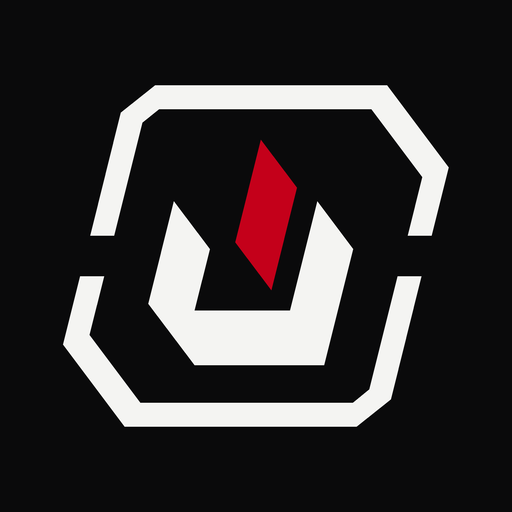
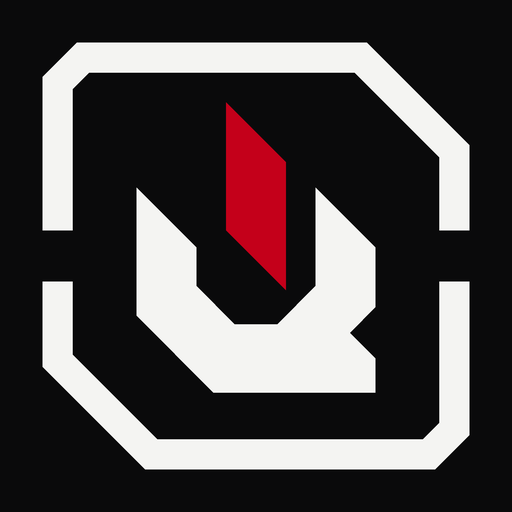
Mark: upright again; inside, every corner that can be cut is cut (gussets, a notch, a longer blade)

diff --git a/assets/src/brand.py b/assets/src/brand.py
@@ -89,9 +89,11 @@ def mark():
     ring = outer.difference(outer.buffer(-7, join_style="mitre"))
     ring = ring.difference(box(-1, 44, 8, 56)).difference(box(92, 44, 101, 56))   # HUD gaps
     u = Polygon([(22, 34), (36, 48), (36, 66), (64, 66), (64, 34), (78, 48), (78, 82), (40, 82), (22, 64)])
-    red = Polygon([(43, 16), (57, 30), (57, 60), (43, 46)])
-    mono = unary_union([ring, u])
-    return lean(mono), lean(red)
+    gussets = unary_union([Polygon([(36, 57), (36, 66), (45, 66)]), Polygon([(55, 66), (64, 66), (64, 57)])])
+    notch = Polygon([(78, 62), (72, 68), (78, 74)])  # a cut into the U's right side, pointing at the blade
+    u = unary_union([u, gussets]).difference(notch)
+    red = Polygon([(43, 14), (57, 28), (57, 58), (43, 44)])
+    return unary_union([ring, u]), red
 
 
 def lean(g, deg=14):
